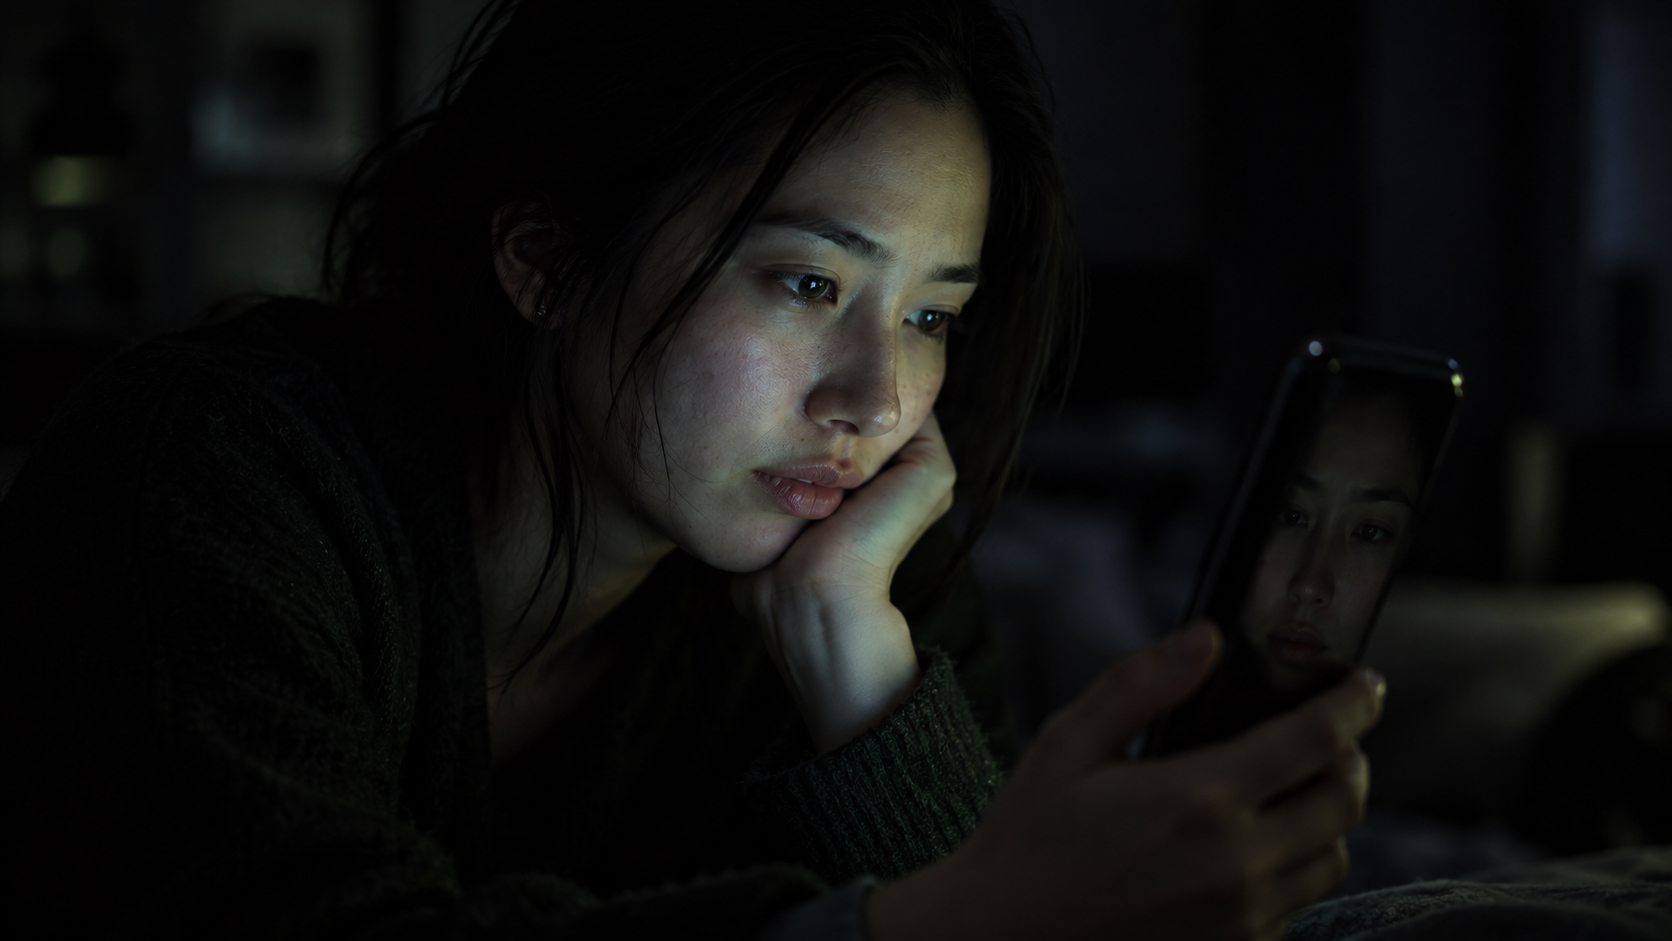
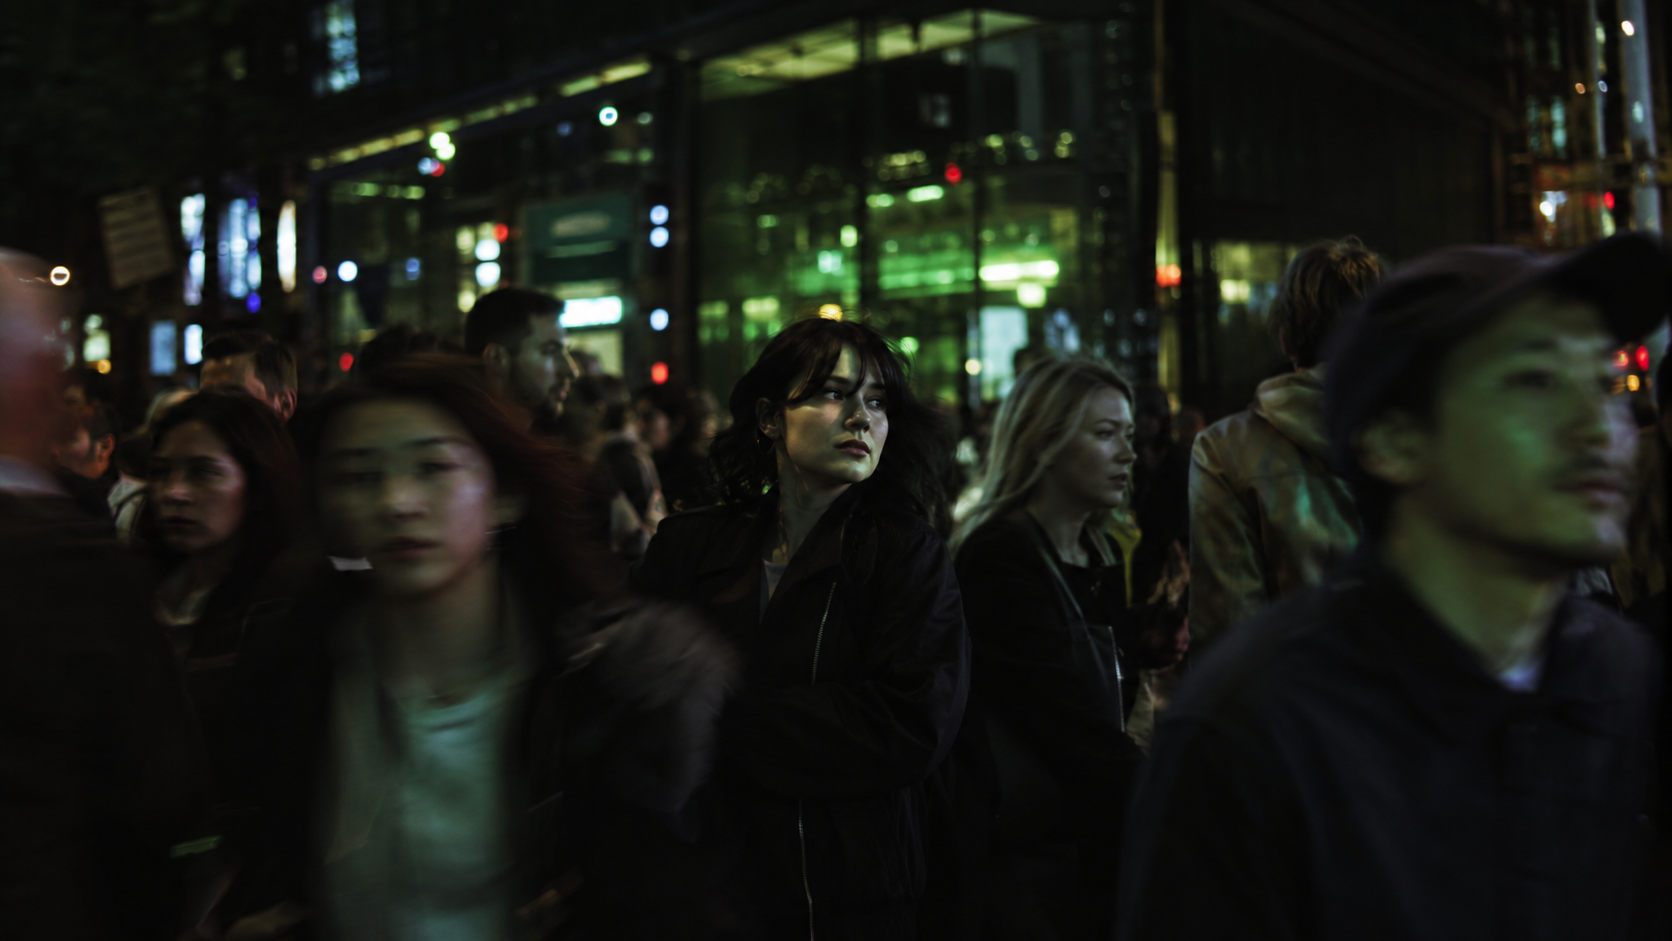
Swap first figure image for a night crowd scene
Replaces the phone-reflection photo under "The mirror, not the
translator" with a blurred night crowd, a better fit for the idea
of messy real culture a model can only approximate.

diff --git a/assets/blog.js b/assets/blog.js
@@ -17,7 +17,7 @@ window.VAELO_BLOG = [
       'Ask a model to write in the voice of a Mumbai auntie or a Gen Z skincare brand and it will often get close enough to be unsettling. That closeness gets mistaken for understanding. It is not understanding. It is pattern matching against an enormous pile of text that humans already wrote, which means the model is not translating culture so much as reassembling it and handing it back to us.',
       '## The mirror, not the translator',
       'A translator has to understand both languages well enough to carry meaning across the gap between them. A model has no lived experience on either side. What it has is a map of which words tend to follow which other words, across more writing than any person could read in a hundred lifetimes. That map is good enough to imitate a voice convincingly. It is not the same thing as knowing what the voice means, and the difference matters the moment the output gets used for something that actually has to land.',
-      '![A person sees their own reflection looking back rather than something new](assets/blog/ai-doesnt-understand-culture-it-reflects-it/fig-1.png)',
+      '![Real culture is messy, moving and impossible to fully capture](assets/blog/ai-doesnt-understand-culture-it-reflects-it/fig-1.png)',
       '## It amplifies whatever you feed it, including the parts you would not choose',
       'The same mechanism that lets a model sound warm and specific also lets it sound exactly as biased, as dated, or as flattened as the internet it trained on. A brand voice built on a model with no guardrails will drift toward whatever is most common in its training data, which is rarely distinctive and occasionally wrong in ways that are expensive to fix after the fact. The tool does not have taste. It has averages. Taste is still the part a studio has to bring.',
       '![The same signal repeated back across many screens, each copy a little more distorted](assets/blog/ai-doesnt-understand-culture-it-reflects-it/fig-3.png)',

diff --git a/blog/ai-doesnt-understand-culture-it-reflects-it.html b/blog/ai-doesnt-understand-culture-it-reflects-it.html
@@ -22,7 +22,7 @@
 <link rel="preconnect" href="https://fonts.googleapis.com">
 <link rel="preconnect" href="https://fonts.gstatic.com" crossorigin>
 <link href="https://fonts.googleapis.com/css2?family=Bricolage+Grotesque:opsz,wght@12..96,400..800&family=Archivo:wght@300;400;500;600&family=Montserrat:wght@600;700&display=swap" rel="stylesheet">
-<link rel="stylesheet" href="../assets/vaelo.css?v=0d790e85">
+<link rel="stylesheet" href="../assets/vaelo.css?v=c8ae6415">
 <script type="application/ld+json">
 {"@context":"https://schema.org","@type":"BlogPosting","headline":"AI Doesn\u2019t Understand Culture. It Reflects It.",
 "datePublished":"2026-10-03","author":{"@type":"Organization","name":"Vaelo Creative LLP"}}
@@ -59,7 +59,7 @@
       </div>
   </section>
   <figure class="post-inline" data-rev style="margin:0 auto;padding:0 var(--pad);max-width:1100px">
-    <img src="../assets/blog/ai-doesnt-understand-culture-it-reflects-it/fig-1.png" alt="A person sees their own reflection looking back rather than something new" loading="lazy" decoding="async" style="width:100%;height:auto;border-radius:14px;display:block">
+    <img src="../assets/blog/ai-doesnt-understand-culture-it-reflects-it/fig-1.png" alt="Real culture is messy, moving and impossible to fully capture" loading="lazy" decoding="async" style="width:100%;height:auto;border-radius:14px;display:block">
   </figure>
   <section class="case-body" style="grid-template-columns:1fr;max-width:74ch;margin:0 auto" data-rev>
     <div class="prose" data-rev data-stagger>
@@ -100,6 +100,6 @@
   <div><a href="mailto:hello@vaelocreative.com">hello@vaelocreative.com</a></div>
   <div>© 2026</div>
 </footer>
-<script src="../assets/vaelo.js?v=c772da44"></script>
+<script src="../assets/vaelo.js?v=6920936b"></script>
 </body>
 </html>

diff --git a/manage.html b/manage.html
@@ -8,7 +8,7 @@
 <link rel="preconnect" href="https://fonts.googleapis.com">
 <link rel="preconnect" href="https://fonts.gstatic.com" crossorigin>
 <link href="https://fonts.googleapis.com/css2?family=Bricolage+Grotesque:opsz,wght@12..96,400..800&family=Archivo:wght@300;400;500;600&family=Montserrat:wght@600;700&display=swap" rel="stylesheet">
-<link rel="stylesheet" href="assets/vaelo.css?v=0d790e85">
+<link rel="stylesheet" href="assets/vaelo.css?v=c8ae6415">
 <style>
   body{overflow:hidden}
   /* ------------------------------------------------------------ login */
@@ -163,7 +163,7 @@
   /* The hero heading runs through a letter-by-letter reveal animation that
      rebuilds each line as nested <span>/<b> elements - editing that DOM
      directly with contenteditable would mangle it. Each line keeps its
-     real text in an aria-label (vaelo.js?v=c772da44 sets this itself for screen
+     real text in an aria-label (vaelo.js?v=6920936b sets this itself for screen
      readers), so editing swaps the line back to plain text on focus and
      re-splits it on blur, and the save step always restores plain text
      before serializing regardless of focus state. */

diff --git a/index.html b/index.html
@@ -22,7 +22,7 @@
 <link rel="preconnect" href="https://fonts.googleapis.com">
 <link rel="preconnect" href="https://fonts.gstatic.com" crossorigin>
 <link href="https://fonts.googleapis.com/css2?family=Bricolage+Grotesque:opsz,wght@12..96,400..800&family=Archivo:wght@300;400;500;600&family=Montserrat:wght@600;700&display=swap" rel="stylesheet">
-<link rel="stylesheet" href="assets/vaelo.css?v=0d790e85">
+<link rel="stylesheet" href="assets/vaelo.css?v=c8ae6415">
 <script type="application/ld+json">
 {"@context":"https://schema.org","@type":"Organization","name":"Vaelo Creative LLP",
 "url":"https://www.vaelocreative.com/","address":{"@type":"PostalAddress","addressLocality":"Mumbai","addressCountry":"IN"},
@@ -186,6 +186,6 @@ document.getElementById('rail').innerHTML = window.VAELO_WORK.map(function (w) {
       '<span class="see">See case</span></div></a>';
 }).join('');
 </script>
-<script src="assets/vaelo.js?v=c772da44"></script>
+<script src="assets/vaelo.js?v=6920936b"></script>
 </body>
 </html>

diff --git a/blog/blockchain-and-digital-marketing.html b/blog/blockchain-and-digital-marketing.html
@@ -22,7 +22,7 @@
 <link rel="preconnect" href="https://fonts.googleapis.com">
 <link rel="preconnect" href="https://fonts.gstatic.com" crossorigin>
 <link href="https://fonts.googleapis.com/css2?family=Bricolage+Grotesque:opsz,wght@12..96,400..800&family=Archivo:wght@300;400;500;600&family=Montserrat:wght@600;700&display=swap" rel="stylesheet">
-<link rel="stylesheet" href="../assets/vaelo.css?v=0d790e85">
+<link rel="stylesheet" href="../assets/vaelo.css?v=c8ae6415">
 <script type="application/ld+json">
 {"@context":"https://schema.org","@type":"BlogPosting","headline":"What Blockchain Actually Changes in Marketing",
 "datePublished":"2026-09-29","author":{"@type":"Organization","name":"Vaelo Creative LLP"}}
@@ -105,6 +105,6 @@
   <div><a href="mailto:hello@vaelocreative.com">hello@vaelocreative.com</a></div>
   <div>© 2026</div>
 </footer>
-<script src="../assets/vaelo.js?v=c772da44"></script>
+<script src="../assets/vaelo.js?v=6920936b"></script>
 </body>
 </html>

diff --git a/blog/integrating-ar-and-vr-into-customer-experiences.html b/blog/integrating-ar-and-vr-into-customer-experiences.html
@@ -22,7 +22,7 @@
 <link rel="preconnect" href="https://fonts.googleapis.com">
 <link rel="preconnect" href="https://fonts.gstatic.com" crossorigin>
 <link href="https://fonts.googleapis.com/css2?family=Bricolage+Grotesque:opsz,wght@12..96,400..800&family=Archivo:wght@300;400;500;600&family=Montserrat:wght@600;700&display=swap" rel="stylesheet">
-<link rel="stylesheet" href="../assets/vaelo.css?v=0d790e85">
+<link rel="stylesheet" href="../assets/vaelo.css?v=c8ae6415">
 <script type="application/ld+json">
 {"@context":"https://schema.org","@type":"BlogPosting","headline":"What AR and VR Are Actually Good For",
 "datePublished":"2026-09-30","author":{"@type":"Organization","name":"Vaelo Creative LLP"}}
@@ -103,6 +103,6 @@
   <div><a href="mailto:hello@vaelocreative.com">hello@vaelocreative.com</a></div>
   <div>© 2026</div>
 </footer>
-<script src="../assets/vaelo.js?v=c772da44"></script>
+<script src="../assets/vaelo.js?v=6920936b"></script>
 </body>
 </html>

diff --git a/blog/whats-a-brand-strategy-anyway.html b/blog/whats-a-brand-strategy-anyway.html
@@ -22,7 +22,7 @@
 <link rel="preconnect" href="https://fonts.googleapis.com">
 <link rel="preconnect" href="https://fonts.gstatic.com" crossorigin>
 <link href="https://fonts.googleapis.com/css2?family=Bricolage+Grotesque:opsz,wght@12..96,400..800&family=Archivo:wght@300;400;500;600&family=Montserrat:wght@600;700&display=swap" rel="stylesheet">
-<link rel="stylesheet" href="../assets/vaelo.css?v=0d790e85">
+<link rel="stylesheet" href="../assets/vaelo.css?v=c8ae6415">
 <script type="application/ld+json">
 {"@context":"https://schema.org","@type":"BlogPosting","headline":"What a Brand Strategy Actually Is",
 "datePublished":"2026-09-28","author":{"@type":"Organization","name":"Vaelo Creative LLP"}}
@@ -114,6 +114,6 @@
   <div><a href="mailto:hello@vaelocreative.com">hello@vaelocreative.com</a></div>
   <div>© 2026</div>
 </footer>
-<script src="../assets/vaelo.js?v=c772da44"></script>
+<script src="../assets/vaelo.js?v=6920936b"></script>
 </body>
 </html>

diff --git a/blog/marketing-in-the-age-of-ai.html b/blog/marketing-in-the-age-of-ai.html
@@ -22,7 +22,7 @@
 <link rel="preconnect" href="https://fonts.googleapis.com">
 <link rel="preconnect" href="https://fonts.gstatic.com" crossorigin>
 <link href="https://fonts.googleapis.com/css2?family=Bricolage+Grotesque:opsz,wght@12..96,400..800&family=Archivo:wght@300;400;500;600&family=Montserrat:wght@600;700&display=swap" rel="stylesheet">
-<link rel="stylesheet" href="../assets/vaelo.css?v=0d790e85">
+<link rel="stylesheet" href="../assets/vaelo.css?v=c8ae6415">
 <script type="application/ld+json">
 {"@context":"https://schema.org","@type":"BlogPosting","headline":"The Work AI Cannot Be Blamed For",
 "datePublished":"2026-10-01","author":{"@type":"Organization","name":"Vaelo Creative LLP"}}
@@ -103,6 +103,6 @@
   <div><a href="mailto:hello@vaelocreative.com">hello@vaelocreative.com</a></div>
   <div>© 2026</div>
 </footer>
-<script src="../assets/vaelo.js?v=c772da44"></script>
+<script src="../assets/vaelo.js?v=6920936b"></script>
 </body>
 </html>

diff --git a/blog/welcome-to-the-vaelo-blog.html b/blog/welcome-to-the-vaelo-blog.html
@@ -22,7 +22,7 @@
 <link rel="preconnect" href="https://fonts.googleapis.com">
 <link rel="preconnect" href="https://fonts.gstatic.com" crossorigin>
 <link href="https://fonts.googleapis.com/css2?family=Bricolage+Grotesque:opsz,wght@12..96,400..800&family=Archivo:wght@300;400;500;600&family=Montserrat:wght@600;700&display=swap" rel="stylesheet">
-<link rel="stylesheet" href="../assets/vaelo.css?v=0d790e85">
+<link rel="stylesheet" href="../assets/vaelo.css?v=c8ae6415">
 <script type="application/ld+json">
 {"@context":"https://schema.org","@type":"BlogPosting","headline":"Welcome to the Vaelo Blog",
 "datePublished":"2026-09-13","author":{"@type":"Organization","name":"Vaelo Creative LLP"}}
@@ -72,6 +72,6 @@
   <div><a href="mailto:hello@vaelocreative.com">hello@vaelocreative.com</a></div>
   <div>© 2026</div>
 </footer>
-<script src="../assets/vaelo.js?v=c772da44"></script>
+<script src="../assets/vaelo.js?v=6920936b"></script>
 </body>
 </html>

diff --git a/work/make-the-science-legible.html b/work/make-the-science-legible.html
@@ -22,7 +22,7 @@
 <link rel="preconnect" href="https://fonts.googleapis.com">
 <link rel="preconnect" href="https://fonts.gstatic.com" crossorigin>
 <link href="https://fonts.googleapis.com/css2?family=Bricolage+Grotesque:opsz,wght@12..96,400..800&family=Archivo:wght@300;400;500;600&family=Montserrat:wght@600;700&display=swap" rel="stylesheet">
-<link rel="stylesheet" href="../assets/vaelo.css?v=0d790e85">
+<link rel="stylesheet" href="../assets/vaelo.css?v=c8ae6415">
 <script type="application/ld+json">
 {"@context":"https://schema.org","@type":"CreativeWork","name":"Zerolys",
 "about":"Sustainable Packaging","dateCreated":"2025",
@@ -123,6 +123,6 @@
   <div>© 2026</div>
 </footer>
 
-<script src="../assets/vaelo.js?v=c772da44"></script>
+<script src="../assets/vaelo.js?v=6920936b"></script>
 </body>
 </html>

diff --git a/work/conceptual.html b/work/conceptual.html
@@ -22,7 +22,7 @@
 <link rel="preconnect" href="https://fonts.googleapis.com">
 <link rel="preconnect" href="https://fonts.gstatic.com" crossorigin>
 <link href="https://fonts.googleapis.com/css2?family=Bricolage+Grotesque:opsz,wght@12..96,400..800&family=Archivo:wght@300;400;500;600&family=Montserrat:wght@600;700&display=swap" rel="stylesheet">
-<link rel="stylesheet" href="../assets/vaelo.css?v=0d790e85">
+<link rel="stylesheet" href="../assets/vaelo.css?v=c8ae6415">
 <script type="application/ld+json">
 {"@context":"https://schema.org","@type":"CreativeWork","name":"Vaelo Creative",
 "about":"AI Production","dateCreated":"2025",
@@ -105,6 +105,6 @@
   <div>© 2026</div>
 </footer>
 
-<script src="../assets/vaelo.js?v=c772da44"></script>
+<script src="../assets/vaelo.js?v=6920936b"></script>
 </body>
 </html>

diff --git a/work/marigold-miraaya.html b/work/marigold-miraaya.html
@@ -22,7 +22,7 @@
 <link rel="preconnect" href="https://fonts.googleapis.com">
 <link rel="preconnect" href="https://fonts.gstatic.com" crossorigin>
 <link href="https://fonts.googleapis.com/css2?family=Bricolage+Grotesque:opsz,wght@12..96,400..800&family=Archivo:wght@300;400;500;600&family=Montserrat:wght@600;700&display=swap" rel="stylesheet">
-<link rel="stylesheet" href="../assets/vaelo.css?v=0d790e85">
+<link rel="stylesheet" href="../assets/vaelo.css?v=c8ae6415">
 <script type="application/ld+json">
 {"@context":"https://schema.org","@type":"CreativeWork","name":"Marigold Miraaya",
 "about":"Real Estate","dateCreated":"2026",
@@ -107,6 +107,6 @@
   <div>© 2026</div>
 </footer>
 
-<script src="../assets/vaelo.js?v=c772da44"></script>
+<script src="../assets/vaelo.js?v=6920936b"></script>
 </body>
 </html>
